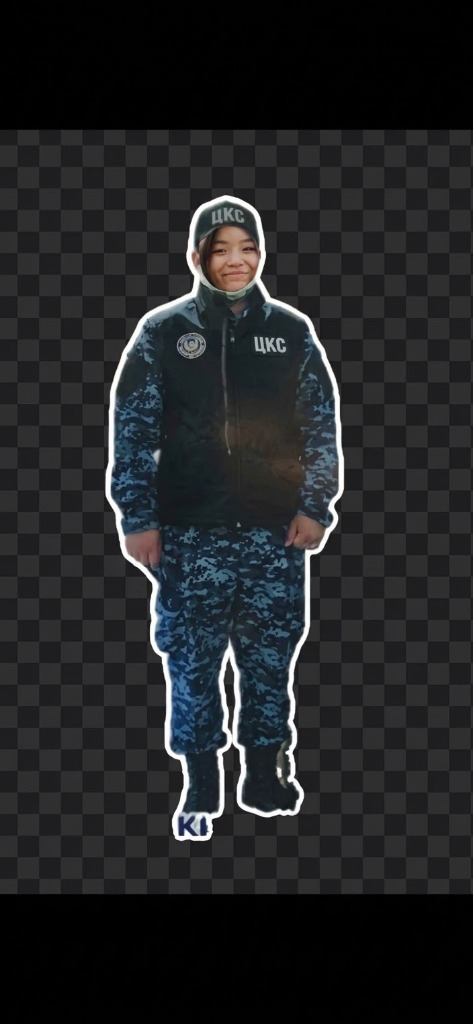
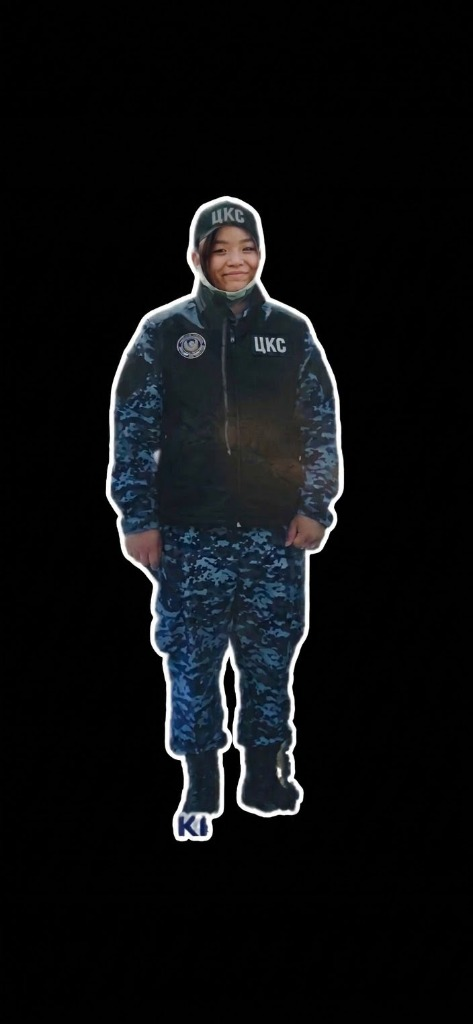
sticker effect + new photo

diff --git a/index.html b/index.html
@@ -238,12 +238,23 @@
     }
 
     .photo-slide-img {
-      max-height: 78vh;
-      max-width: 90vw;
+      max-height: 72vh;
+      max-width: 80vw;
       object-fit: contain;
-      mix-blend-mode: lighten;
       display: block;
       margin: 0 auto;
+      cursor: zoom-in;
+      mix-blend-mode: screen;
+      filter:
+        drop-shadow(0 0 8px rgba(255,255,255,0.6))
+        drop-shadow(0 0 2px rgba(255,255,255,1));
+      transform: rotate(-2.5deg) translateY(6px);
+      animation: stickerDrop 0.65s cubic-bezier(0.16, 1, 0.3, 1) both;
+    }
+
+    @keyframes stickerDrop {
+      0%   { opacity: 0; transform: rotate(-8deg) translateY(-30px) scale(0.85); }
+      100% { opacity: 1; transform: rotate(-2.5deg) translateY(6px) scale(1); }
     }
 
     .lightbox {
@@ -269,7 +280,6 @@
       max-width: 92vw;
       max-height: 92vh;
       object-fit: contain;
-      mix-blend-mode: lighten;
       transform: scale(0.9);
       transition: transform 0.35s cubic-bezier(0.16, 1, 0.3, 1);
     }
@@ -574,6 +584,10 @@
     document.addEventListener('keydown', e => {
       if (e.key === 'Escape') closeLightbox();
     });
+  </script>
+</body>
+</html>
+
   </script>
 </body>
 </html>
